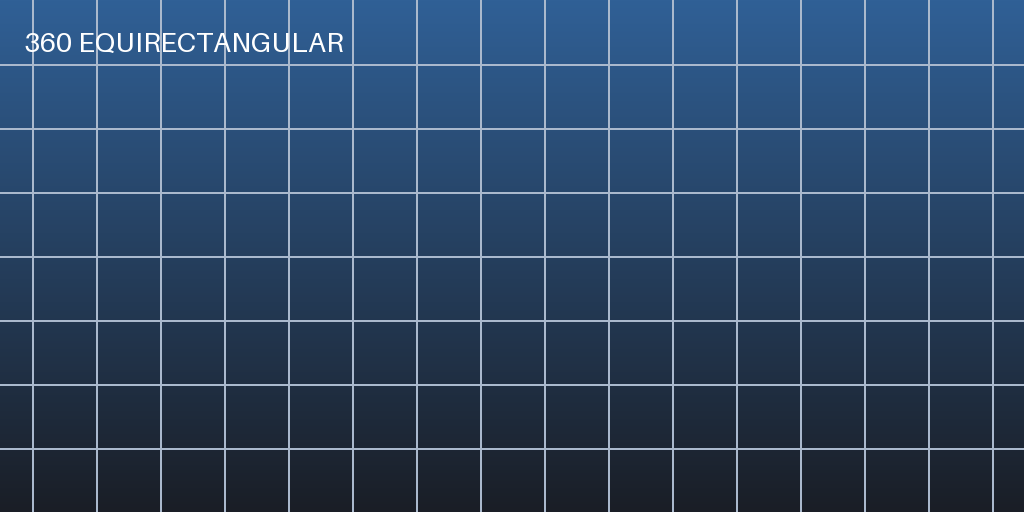
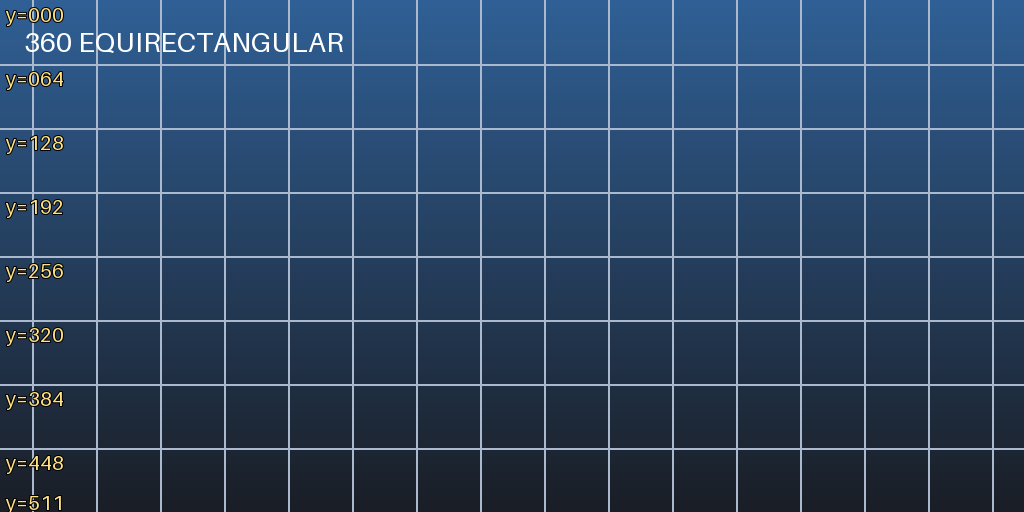
Number grid rows in pano test image

diff --git a/tools/make_examples.py b/tools/make_examples.py
@@ -168,6 +168,16 @@ def equirect_image() -> Image.Image:
         d.line((x, 0, x, h - 1), fill=(170, 185, 205), width=2)
     for y in range(64, h, 64):
         d.line((0, y, w - 1, y), fill=(170, 185, 205), width=2)
+    # Номера строк нужны, чтобы видеть, какая часть кадра попадает на стену
+    # в режиме цилиндра (сейчас это центральные 50% высоты).
+    for y in range(0, h, 64):
+        d.text(
+            (6, min(y + 2, h - 22)), f"y={y:03d}",
+            fill=(255, 224, 130), font=SMALL,
+            stroke_width=1, stroke_fill=(0, 0, 0),
+        )
+    d.text((6, h - 22), "y=511", fill=(255, 224, 130), font=SMALL,
+           stroke_width=1, stroke_fill=(0, 0, 0))
     d.text((24, 24), "360 EQUIRECTANGULAR", fill=(255, 255, 255), font=FONT)
     px = img.load()
     for y in range(h):
